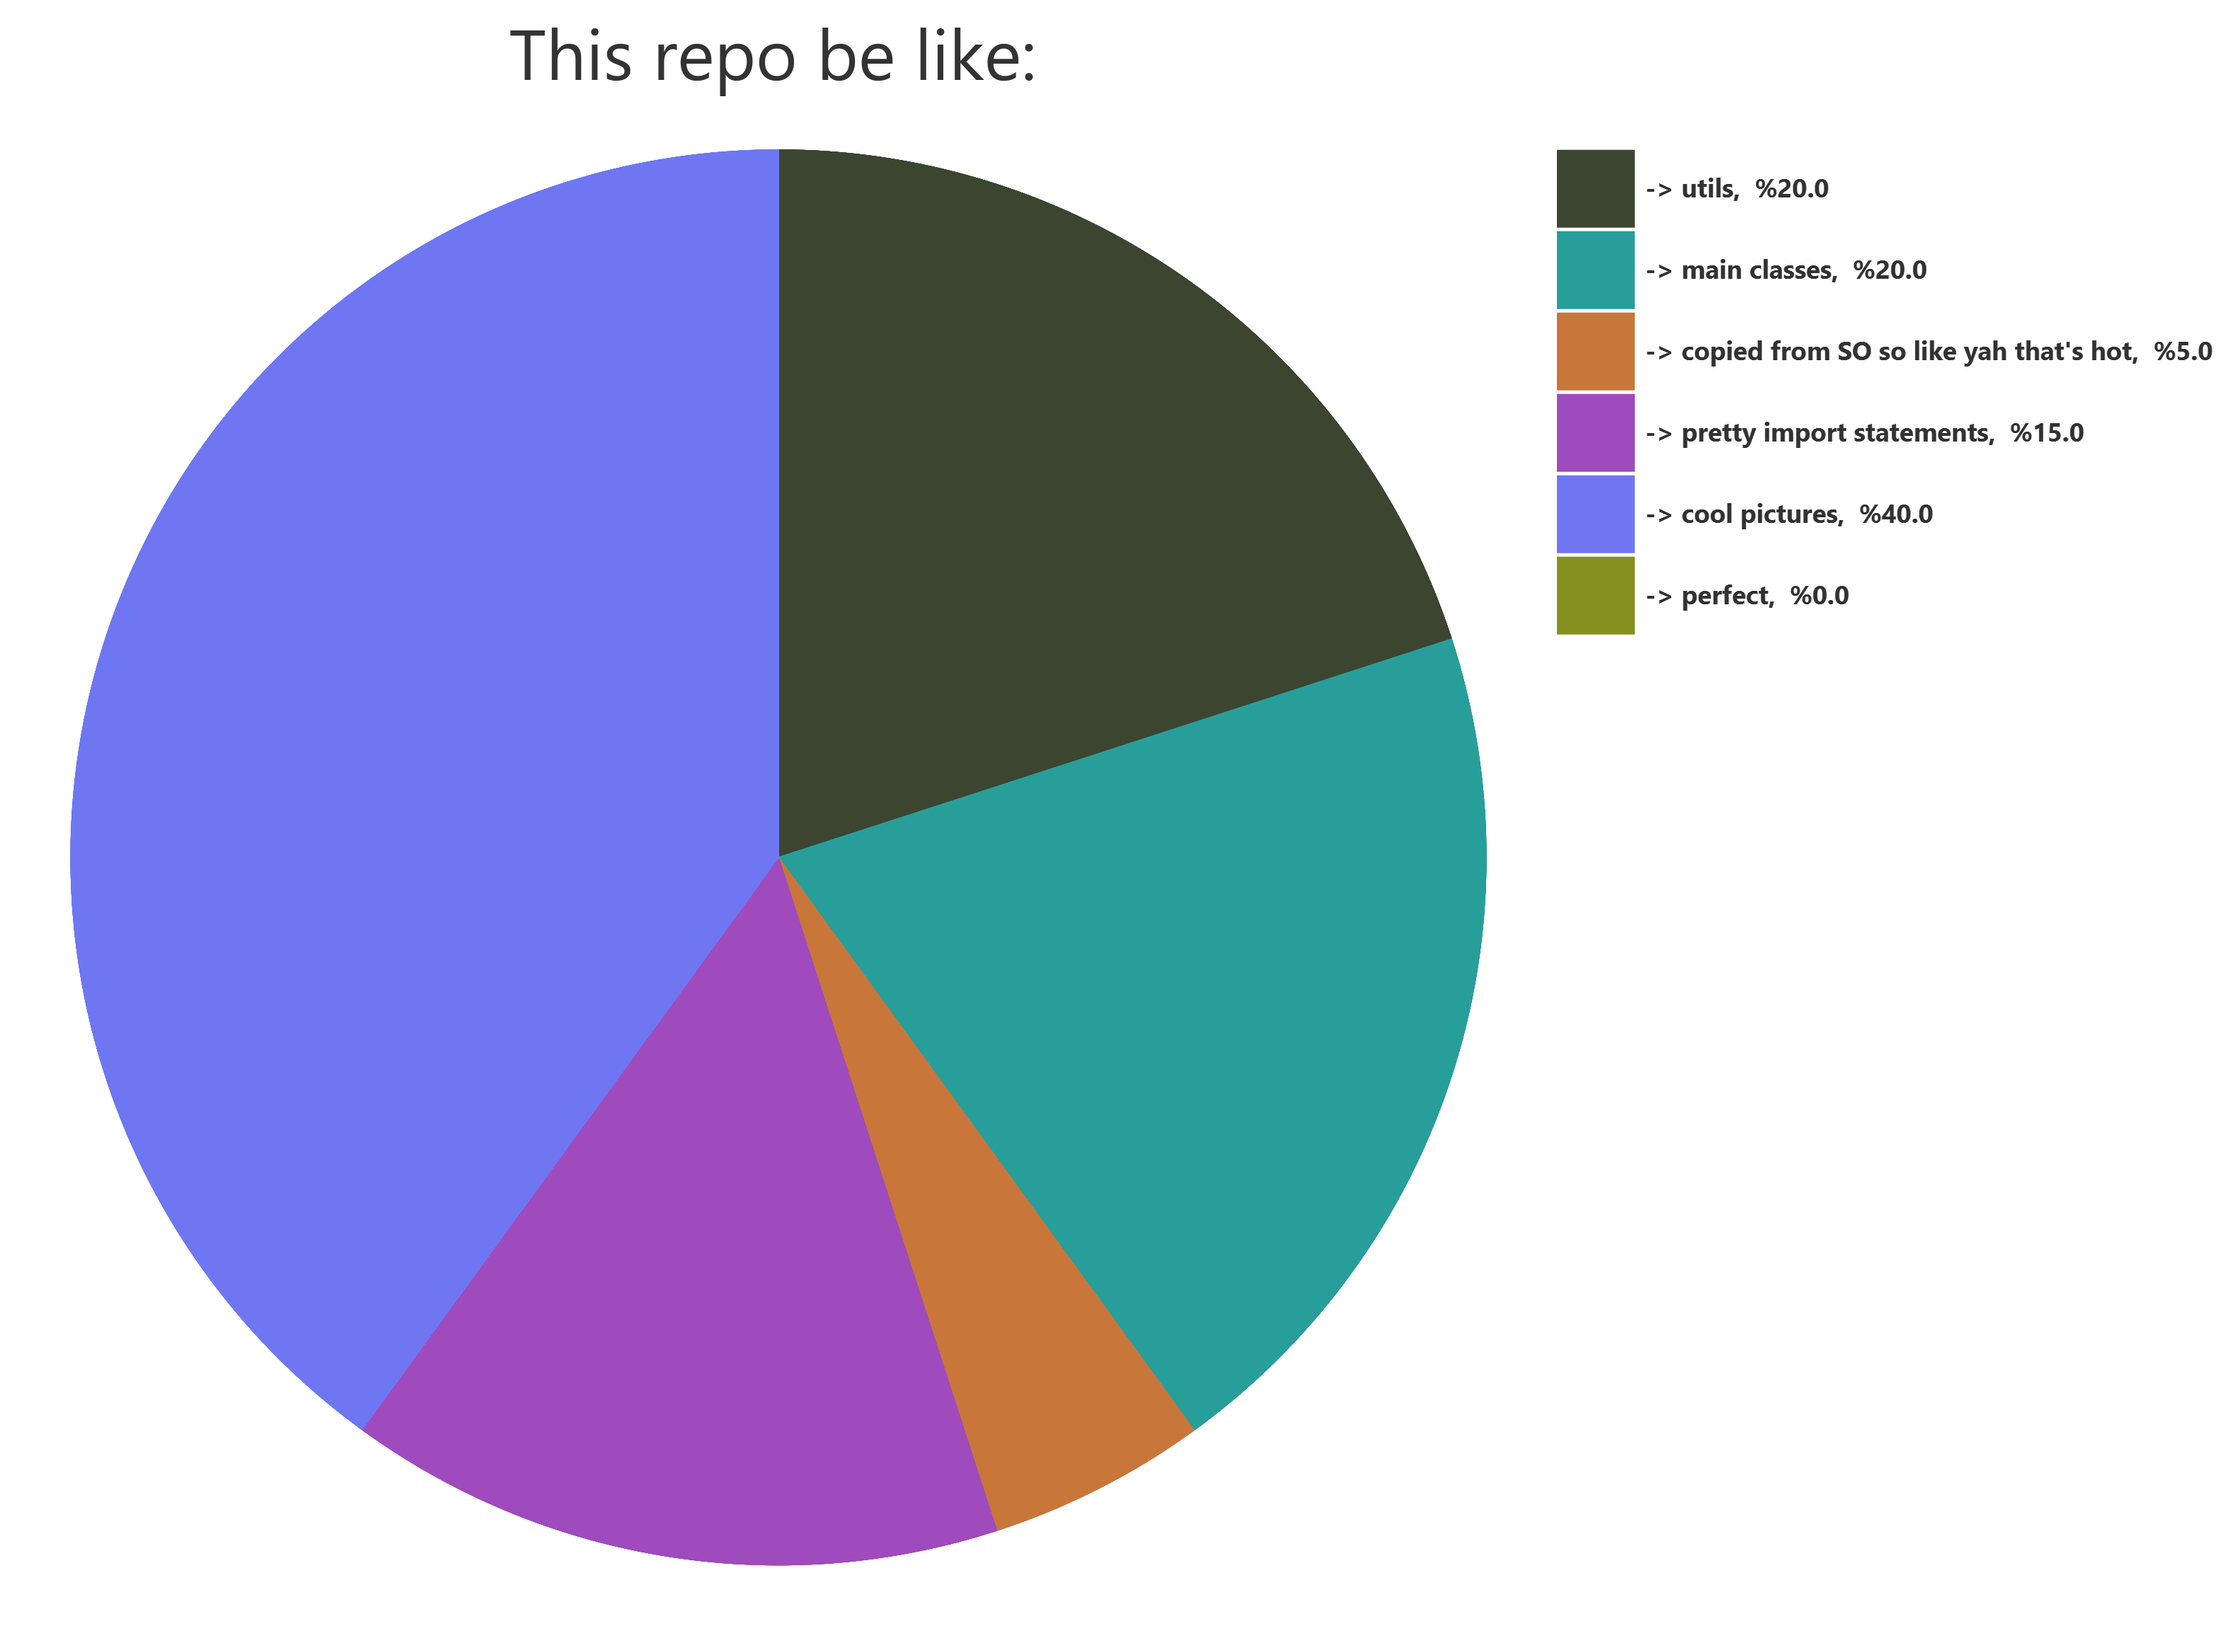
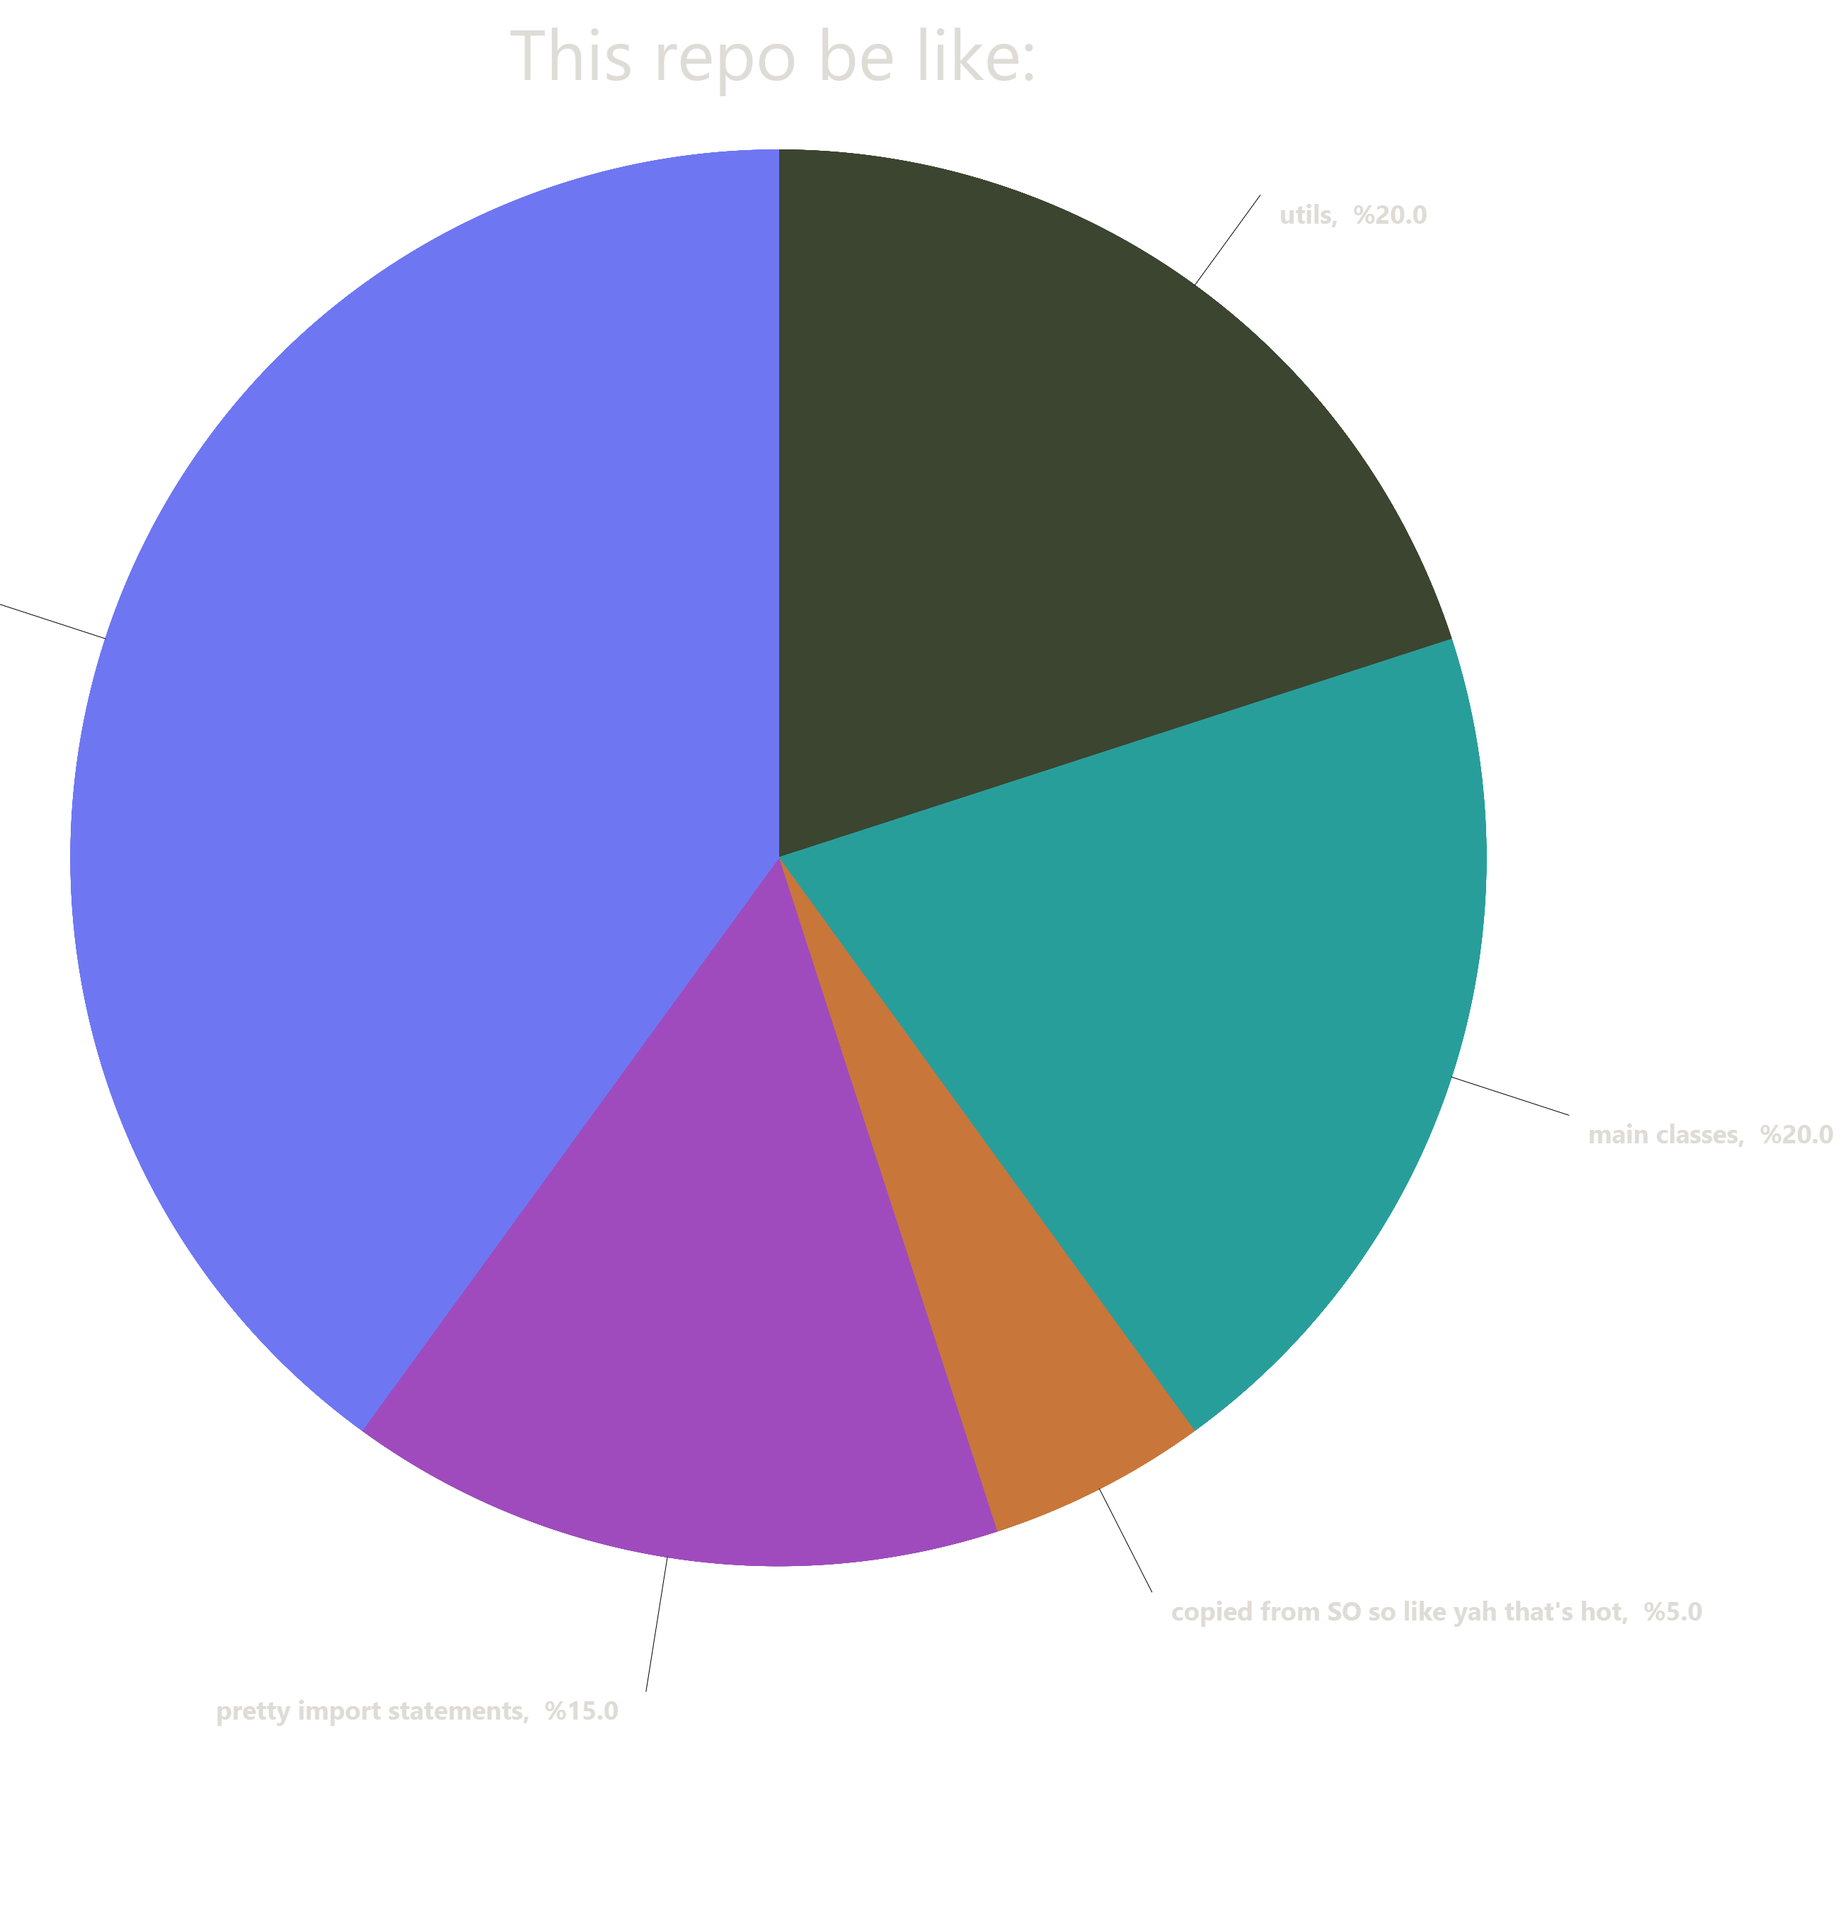
oops

diff --git a/net/keinr/pichart/Main.java b/net/keinr/pichart/Main.java
@@ -49,6 +49,8 @@ public class Main extends Application {
     private static String textStyle = "-fx-font-size: 12;";
     private static String title = "";
     private static double titleSize = 15;
+    private static String textColor = "#242424";
+    private static byte keyStyle = 0;
 
     @Override
     public void start(Stage window) {
@@ -77,6 +79,10 @@ public class Main extends Application {
                             title = params[1];
                         } else if (params[0].equalsIgnoreCase("@titlesize")) {
                             titleSize = Double.parseDouble(params[1]);
+                        } else if (params[0].equalsIgnoreCase("@textcolor")) {
+                            textColor = params[1];
+                        } else if (params[0].equalsIgnoreCase("@keystyle")) {
+                            keyStyle = (byte)Integer.parseInt(params[1]);
                         }
                     } else {
                         String[] params = parseValue(line);
@@ -92,10 +98,14 @@ public class Main extends Application {
         } catch (IOException e) {
             e.printStackTrace();
         }
-
+        int size = numbers.size();
 
         animation.terminate();
         System.out.println(" Done!");
+        if (size == 0) {
+            System.out.println("Error: no values specified with which to create chart.");
+            Platform.exit();
+        }
         System.out.print("Creating chart... \r");
         animation = new LoadingAnimation("Creating chart... ", 200);
         new Thread(animation).start();
@@ -111,14 +121,68 @@ public class Main extends Application {
         Label t = new Label(title);
         t.setLayoutX((dimensions-width_t)/2);
         t.setLayoutY(5);
-        t.setStyle("-fx-font-size: "+titleSize+";");
+        t.setStyle("-fx-font-size: "+titleSize+";-fx-text-fill: "+textColor+";");
         canvas.getChildren().add(t);
 
         center = new CoordinatePair(radius+sideMargin, radius+sideMargin+height_t);
         target = new CoordinatePair(radius+sideMargin, sideMargin+height_t);
 
+        final double
+        fontSizePre = dimensions_d20/3,
+        textSize = fontSizePre<10?10:fontSizePre;
 
-        int size = numbers.size();
+        textStyle = "-fx-font-size: "+textSize+";-fx-background-color: transparent;-fx-font-weight: bold;-fx-text-fill: "+textColor+";";
+
+        Font font = Font.font("Arial", textSize);
+
+        double
+        y_level = sideMargin,
+        x_level = 0,
+        x_buffer = 0,
+        y_buffer = 0;
+
+
+        if (keyStyle == 1) {
+            for (int i = 0; i < size; i++) { // Draw chart
+                Value focus = numbers.get(i);
+                if (focus.value == 0) continue;
+                double degreesChange_d2 = focus.value/total*360/2;
+
+                rotate(degreesChange_d2);
+
+                double
+                x_change = target.x-center.x,
+                y_change = target.y-center.y,
+                totalChange = Math.abs(x_change) + Math.abs(y_change);
+
+                x_change = x_change/totalChange;
+                y_change = y_change/totalChange;
+
+                CoordinatePair endpoint = new CoordinatePair(target.x+(x_change*dimensions_d10), target.y+(y_change*dimensions_d10));
+
+                Line line = new Line(target.x, target.y, endpoint.x, endpoint.y);
+
+                String toText = focus.name + ",  %" + (Math.round(focus.value/total*10000)/100.0);
+                Text text = new Text(toText);
+                text.setFont(font);
+                text.applyCss();
+                double width = text.getLayoutBounds().getWidth()*1.1;
+                Label label = new Label(toText);
+                if (x_change > 0) {
+                    label.setLayoutX(endpoint.x+dimensions_d20/4);
+                } else {
+                    label.setLayoutX(endpoint.x-(dimensions_d20/4+width));
+                }
+                label.setLayoutY(endpoint.y);
+                label.setStyle(textStyle);
+
+                canvas.getChildren().addAll(line, label);
+
+                rotate(degreesChange_d2);
+            }
+        }
+
+
 
         for (int i = 0; i < size; i++) { // Draw chart
             Value focus = numbers.get(i);
@@ -133,49 +197,38 @@ public class Main extends Application {
             }
         }
 
-        final double fontSizePre = dimensions_d20/3;
-        final double textSize = fontSizePre<10?10:fontSizePre;
-        textStyle = "-fx-font-size: "+textSize+";-fx-background-color: transparent;-fx-font-weight: bold;";
+        if (keyStyle == 0) {
+            for (int i = 0; i < size; i++) { // Add labels
+                Value focus = numbers.get(i);
+                String toText = " -> " + focus.name + ",  %" + (Math.round(focus.value/total*10000)/100.0);
+                Text text = new Text(toText);
+                text.setFont(font);
+                text.applyCss();
+                double width = text.getLayoutBounds().getWidth()*1.1;
 
-        ///
+                // width + color key width + total margin
+                double netWidth = dimensions_d20+width+keySpacing;
 
-        double y_level = sideMargin, x_level = 0, x_buffer = 0;
+                if (y_level+dimensions_d20 >= dimensions-sideMargin) {
+                    y_level = sideMargin;
+                    x_level = x_buffer;
+                }
+                if (netWidth+x_level+keySpacing > x_buffer) {
+                    x_buffer = netWidth+x_level+keySpacing;
+                }
 
-        for (int i = 0; i < size; i++) { // Add labels
-            Value focus = numbers.get(i);
-            String toText = " -> " + focus.name + ",  %" + (Math.round(focus.value/total*10000)/100.0);
-            Text text = new Text(toText);
-            Font font = Font.font("Arial", textSize);
-            text.setFont(font);
-            text.applyCss();
-            double width = text.getLayoutBounds().getWidth()*1.1;
+                Rectangle coloredKey = new Rectangle(dimensions+x_level, y_level+height_t, dimensions_d20, dimensions_d20);
+                coloredKey.setFill(Color.web(focus.color));
 
-            // width + color key width + total margin
-            double netWidth = dimensions_d20+width+keySpacing;
+                Label label = new Label(toText);
+                label.setLayoutX(dimensions+x_level+dimensions_d20+keySpacing);
+                label.setLayoutY(y_level+height_t+dimensions_d20/4);
+                label.setStyle(textStyle);
 
-            if (y_level+dimensions_d20 >= dimensions-sideMargin) {
-                y_level = sideMargin;
-                x_level = x_buffer;
+                canvas.getChildren().addAll(label, coloredKey);
+
+                y_level += dimensions_d20+keySpacing;
             }
-            if (netWidth+x_level+keySpacing > x_buffer) {
-                x_buffer = netWidth+x_level+keySpacing;
-            }
-
-            // if (i == 3) {
-            //     System.out.println((netWidth+x_level+keySpacing) + " ==? " + x_buffer);
-            // }
-
-            Rectangle coloredKey = new Rectangle(dimensions+x_level, y_level+height_t, dimensions_d20, dimensions_d20);
-            coloredKey.setFill(Color.web(focus.color));
-
-            Label label = new Label(toText);
-            label.setLayoutX(dimensions+x_level+dimensions_d20+keySpacing);
-            label.setLayoutY(y_level+height_t+dimensions_d20/4);
-            label.setStyle(textStyle);
-
-            canvas.getChildren().addAll(label, coloredKey);
-
-            y_level += dimensions_d20+keySpacing;
         }
 
 
@@ -186,7 +239,7 @@ public class Main extends Application {
         new Thread(animation).start();
 
         canvas.setStyle("-fx-background-color: null;");
-        Scene scene = new Scene(canvas, dimensions+x_buffer, dimensions+height_t);
+        Scene scene = new Scene(canvas, dimensions+x_buffer, dimensions+y_buffer+height_t);
         window.initStyle(StageStyle.TRANSPARENT);
         scene.setFill(Color.TRANSPARENT);
         ToFile.scene(scene, "png", outputPath);

diff --git a/README.md b/README.md
@@ -18,6 +18,7 @@ The rest here are for literal configuration:
 
 `@titlesize <number>` specifies the title's font size
 
+`@textcolor <hex color value>` specifies a hex color to use for text
 
 # Things to note:
 
